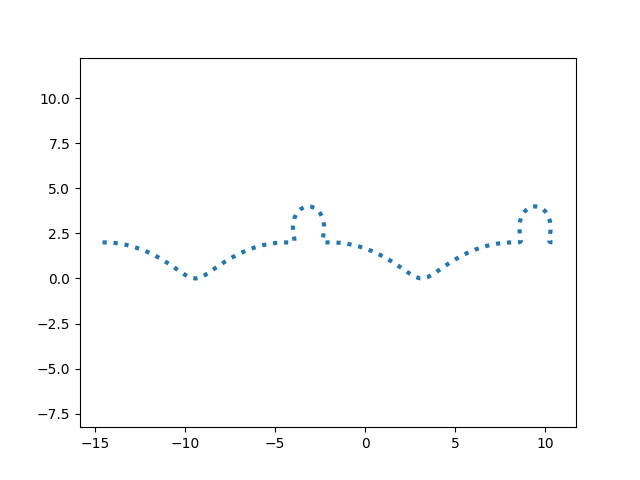
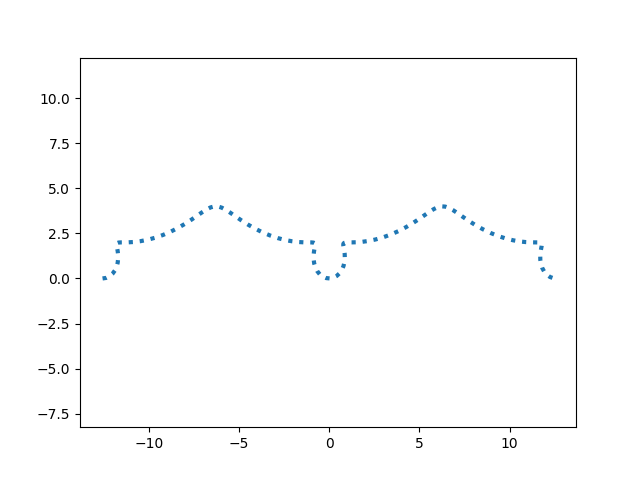
авыа

diff --git a/test.py b/test.py
@@ -1,0 +1,34 @@
+	
+from matplotlib.animation import FuncAnimation
+import matplotlib.pyplot as plt
+import numpy as np
+ 
+ 
+def circle_move(R):
+    alpha = np.arange(0, 2*np.pi, 0.1)
+    x =  R*np.cos(alpha)
+    y = R*np.sin(alpha)
+    return x, y
+ 
+ 
+def animate(i):
+    ball.set_data(circle_move(R = np.arange(1, 20, 0.1)))
+ 
+ 
+if __name__ == '__main__':
+ 
+    fig, ax = plt.subplots()
+    ball, = plt.plot([], [], 'o', color='r', label='Ball')
+ 
+    edge = 3
+    plt.axis('equal')
+    ax.set_xlim(-edge, edge)
+    ax.set_ylim(-edge, edge)
+    
+    ani = FuncAnimation(fig,
+                        animate,
+                        frames=100,
+                        interval=30
+                       )
+ 
+    ani.save('animation_test.gif')

diff --git a/lab_7_task2.py b/lab_7_task2.py
@@ -2,8 +2,24 @@ import numpy as np
 import matplotlib.pyplot as plt
 from matplotlib.animation import FuncAnimation
 	
-def circle_move(R, angle_vel, time):
-    alpha = angle_vel * np.pi / 180 * time
-    x = R * np.cos(alpha)
-    y = R * np.sin(alpha)
-    return x, y
+def circle_move(radius=10):
+    
+    x = np.arange(-2*radius, 2*radius, 0.1)
+    y = np.arange(-2*radius, 2*radius, 0.1)
+ 
+    X, Y = np.meshgrid(x, y)
+ 
+    fxy = X**2 + Y**2 - radius**2
+ 
+    plt.contour(X, Y, fxy, levels=[0])
+    plt.axis("equal")
+
+    plt.savefig("fig_4.png")
+
+def animate(i):
+    ball.set_data(circle_move(R=0.5, vx0=0.01, vy0=0.01, time=i))
+
+if __name__ == "__main__":
+    circle_move()
+
+

diff --git a/lab_7_task1.py b/lab_7_task1.py
@@ -5,12 +5,13 @@ import numpy as np
 def cycloid(R=2):
     t = np.arange(-2*np.pi, 2*np.pi, 0.1)  
  
-    x = R * (t - (np.cos(t))**3)
-    y = R * (1 - (np.sin(t))**3)
+    x = R * (t - (np.sin(t))**3)
+    y = R * (1 - (np.cos(t))**3)
 
     plt.plot(x, y, ls=':', lw=3)
     plt.axis('equal')
     plt.savefig('fig_1_Cycloid.png')
+    plt.close()
  
 
 def astroid(R = 2):
@@ -22,6 +23,7 @@ def astroid(R = 2):
     plt.plot(x, y, ls=':', lw=3)
     plt.axis('equal')
     plt.savefig('fig_1_astroida.png')
+    plt.close()
 
 
 if __name__ == '__main__':
